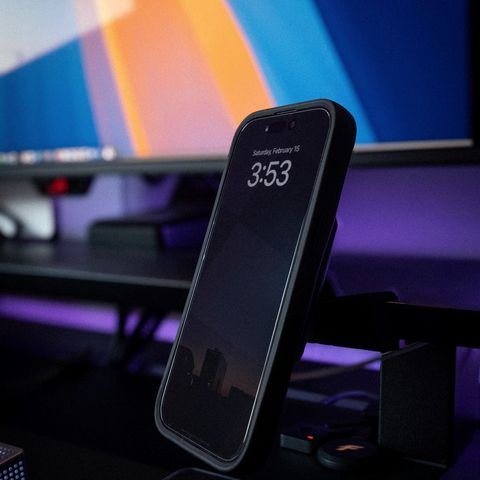
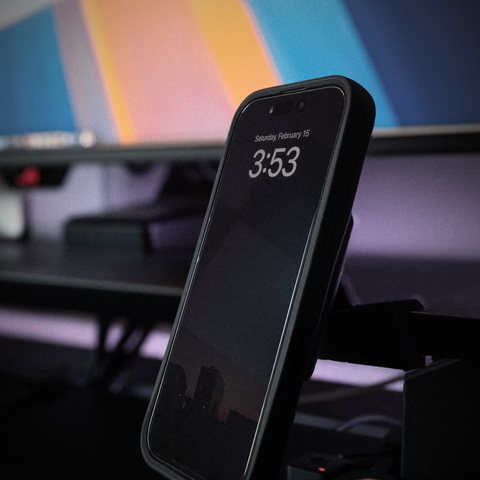
Magnus v8 preview: graded desk photos

diff --git a/public/magnus/index.html b/public/magnus/index.html
@@ -91,20 +91,20 @@
     <p class="inuse-lede reveal">Real photos of Magnus in use, straight from the Etsy listing.</p>
     <div class="inuse-grid" tabindex="0" role="region" aria-label="Real photos of Magnus, scroll sideways on small screens">
       <picture>
-        <source type="image/webp" srcset="/magnus/assets/img/magnus-inuse-mount-puck-320.webp?v=7 320w, /magnus/assets/img/magnus-inuse-mount-puck-480.webp?v=7 480w, /magnus/assets/img/magnus-inuse-mount-puck-720.webp?v=7 720w" sizes="(min-width: 900px) 225px, 60vw">
-        <img src="/magnus/assets/img/magnus-inuse-mount-puck-480.jpg?v=7" srcset="/magnus/assets/img/magnus-inuse-mount-puck-320.jpg?v=7 320w, /magnus/assets/img/magnus-inuse-mount-puck-480.jpg?v=7 480w, /magnus/assets/img/magnus-inuse-mount-puck-720.jpg?v=7 720w" sizes="(min-width: 900px) 225px, 60vw" width="720" height="720" loading="lazy" decoding="async" alt="The Magnus mount holding a white Apple MagSafe charger, attached to a desk riser under a monitor.">
+        <source type="image/webp" srcset="/magnus/assets/img/magnus-inuse-mount-puck-320.webp?v=8 320w, /magnus/assets/img/magnus-inuse-mount-puck-480.webp?v=8 480w, /magnus/assets/img/magnus-inuse-mount-puck-720.webp?v=8 720w" sizes="(min-width: 900px) 225px, 60vw">
+        <img src="/magnus/assets/img/magnus-inuse-mount-puck-480.jpg?v=8" srcset="/magnus/assets/img/magnus-inuse-mount-puck-320.jpg?v=8 320w, /magnus/assets/img/magnus-inuse-mount-puck-480.jpg?v=8 480w, /magnus/assets/img/magnus-inuse-mount-puck-720.jpg?v=8 720w" sizes="(min-width: 900px) 225px, 60vw" width="720" height="720" loading="lazy" decoding="async" alt="The Magnus mount holding a white Apple MagSafe charger, attached to a desk riser under a monitor.">
       </picture>
       <picture>
-        <source type="image/webp" srcset="/magnus/assets/img/magnus-inuse-phone-angle-320.webp?v=7 320w, /magnus/assets/img/magnus-inuse-phone-angle-480.webp?v=7 480w, /magnus/assets/img/magnus-inuse-phone-angle-720.webp?v=7 720w" sizes="(min-width: 900px) 225px, 60vw">
-        <img src="/magnus/assets/img/magnus-inuse-phone-angle-480.jpg?v=7" srcset="/magnus/assets/img/magnus-inuse-phone-angle-320.jpg?v=7 320w, /magnus/assets/img/magnus-inuse-phone-angle-480.jpg?v=7 480w, /magnus/assets/img/magnus-inuse-phone-angle-720.jpg?v=7 720w" sizes="(min-width: 900px) 225px, 60vw" width="720" height="720" loading="lazy" decoding="async" alt="An iPhone held upright on the Magnus mount beside a monitor, its lock screen showing the time.">
+        <source type="image/webp" srcset="/magnus/assets/img/magnus-inuse-phone-angle-320.webp?v=8 320w, /magnus/assets/img/magnus-inuse-phone-angle-480.webp?v=8 480w, /magnus/assets/img/magnus-inuse-phone-angle-720.webp?v=8 720w" sizes="(min-width: 900px) 225px, 60vw">
+        <img src="/magnus/assets/img/magnus-inuse-phone-angle-480.jpg?v=8" srcset="/magnus/assets/img/magnus-inuse-phone-angle-320.jpg?v=8 320w, /magnus/assets/img/magnus-inuse-phone-angle-480.jpg?v=8 480w, /magnus/assets/img/magnus-inuse-phone-angle-720.jpg?v=8 720w" sizes="(min-width: 900px) 225px, 60vw" width="720" height="720" loading="lazy" decoding="async" alt="An iPhone held upright on the Magnus mount beside a monitor, its lock screen showing the time.">
       </picture>
       <picture>
-        <source type="image/webp" srcset="/magnus/assets/img/magnus-inuse-phone-case-320.webp?v=7 320w, /magnus/assets/img/magnus-inuse-phone-case-480.webp?v=7 480w, /magnus/assets/img/magnus-inuse-phone-case-720.webp?v=7 720w" sizes="(min-width: 900px) 225px, 60vw">
-        <img src="/magnus/assets/img/magnus-inuse-phone-case-480.jpg?v=7" srcset="/magnus/assets/img/magnus-inuse-phone-case-320.jpg?v=7 320w, /magnus/assets/img/magnus-inuse-phone-case-480.jpg?v=7 480w, /magnus/assets/img/magnus-inuse-phone-case-720.jpg?v=7 720w" sizes="(min-width: 900px) 225px, 60vw" width="720" height="720" loading="lazy" decoding="async" alt="Rear view of an iPhone in a dark patterned case resting on the Magnus mount at the edge of a desk.">
+        <source type="image/webp" srcset="/magnus/assets/img/magnus-inuse-phone-case-320.webp?v=8 320w, /magnus/assets/img/magnus-inuse-phone-case-480.webp?v=8 480w, /magnus/assets/img/magnus-inuse-phone-case-720.webp?v=8 720w" sizes="(min-width: 900px) 225px, 60vw">
+        <img src="/magnus/assets/img/magnus-inuse-phone-case-480.jpg?v=8" srcset="/magnus/assets/img/magnus-inuse-phone-case-320.jpg?v=8 320w, /magnus/assets/img/magnus-inuse-phone-case-480.jpg?v=8 480w, /magnus/assets/img/magnus-inuse-phone-case-720.jpg?v=8 720w" sizes="(min-width: 900px) 225px, 60vw" width="720" height="720" loading="lazy" decoding="async" alt="Rear view of an iPhone in a dark patterned case resting on the Magnus mount at the edge of a desk.">
       </picture>
       <picture>
-        <source type="image/webp" srcset="/magnus/assets/img/magnus-inuse-mount-detail-320.webp?v=7 320w, /magnus/assets/img/magnus-inuse-mount-detail-480.webp?v=7 480w, /magnus/assets/img/magnus-inuse-mount-detail-720.webp?v=7 720w" sizes="(min-width: 900px) 225px, 60vw">
-        <img src="/magnus/assets/img/magnus-inuse-mount-detail-480.jpg?v=7" srcset="/magnus/assets/img/magnus-inuse-mount-detail-320.jpg?v=7 320w, /magnus/assets/img/magnus-inuse-mount-detail-480.jpg?v=7 480w, /magnus/assets/img/magnus-inuse-mount-detail-720.jpg?v=7 720w" sizes="(min-width: 900px) 225px, 60vw" width="720" height="720" loading="lazy" decoding="async" alt="Close up of the Magnus mount, showing its folded black body, magnet plate and the white charging cable.">
+        <source type="image/webp" srcset="/magnus/assets/img/magnus-inuse-mount-detail-320.webp?v=8 320w, /magnus/assets/img/magnus-inuse-mount-detail-480.webp?v=8 480w, /magnus/assets/img/magnus-inuse-mount-detail-720.webp?v=8 720w" sizes="(min-width: 900px) 225px, 60vw">
+        <img src="/magnus/assets/img/magnus-inuse-mount-detail-480.jpg?v=8" srcset="/magnus/assets/img/magnus-inuse-mount-detail-320.jpg?v=8 320w, /magnus/assets/img/magnus-inuse-mount-detail-480.jpg?v=8 480w, /magnus/assets/img/magnus-inuse-mount-detail-720.jpg?v=8 720w" sizes="(min-width: 900px) 225px, 60vw" width="720" height="720" loading="lazy" decoding="async" alt="Close up of the Magnus mount, showing its folded black body, magnet plate and the white charging cable.">
       </picture>
     </div>
     </div>
